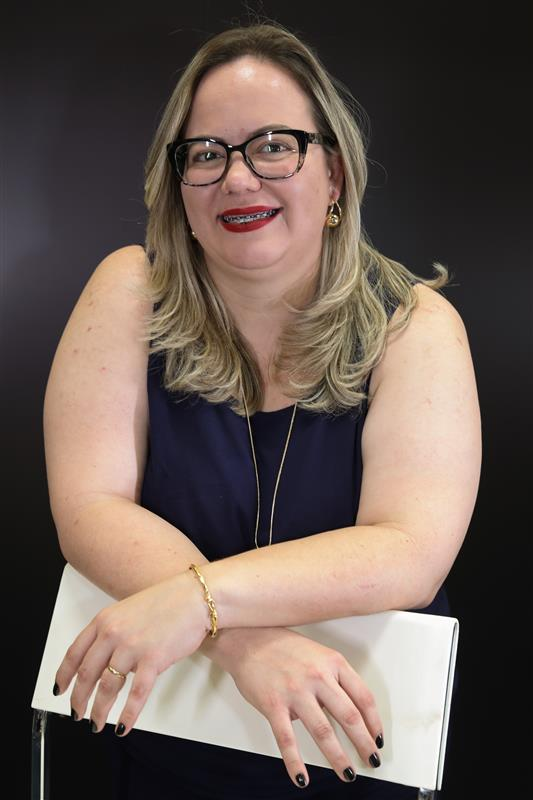
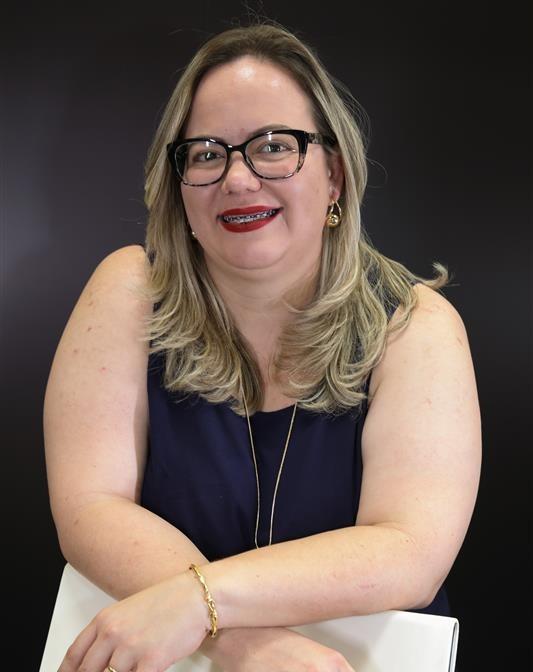
links

diff --git a/Evento/index.html b/Evento/index.html
@@ -108,25 +108,25 @@
                         <div class="title2">Cabeleleiro</div>
                       </a>
                      
-                      <a href="cabeleleiro.html" class="swiper-slide">
+                      <a href="saude.html" class="swiper-slide">
                         <img src="/Evento/src/WhatsApp Image 2025-04-22 at 11.06.04 (2).jpeg" alt="">
                         <div class="title1">Leticia Texeira Rosa</div>
                         <div class="title2">Saúde e Apoio Social</div>
                       </a>
                      
-                      <a href="cabeleleiro.html" class="swiper-slide">
+                      <a href="ti.html" class="swiper-slide">
                         <img src="/Evento/src/WhatsApp Image 2025-04-22 at 11.06.03.jpeg" alt="">
                         <div class="title1">Rafael Rodrigues dos Santos</div>
                         <div class="title2">Desenvolvimento de Sistemas </div>
                       </a>
                      
-                      <a href="cabeleleiro.html" class="swiper-slide">
+                      <a href="estetica.html" class="swiper-slide">
                         <img src="/Evento/src/WhatsApp Image 2025-04-22 at 11.06.03 (1).jpeg" alt="">
                         <div class="title1">Rebeka Araújo Bucalon</div>
                         <div class="title2">Estética e Bem-Estar</div>
                       </a>
                      
-                      <a href="cabeleleiro.html" class="swiper-slide">
+                      <a href="gastronomia.html" class="swiper-slide">
                         <img src="/Evento/src/WhatsApp Image 2025-04-22 at 11.06.04 (1).jpeg" alt="">
                         <div class="title1">Any Gabrieli da Silva Pinto</div>
                         <div class="title2">Gastronomia</div>
@@ -169,32 +169,32 @@
                 <div class="swiper mySwiper">
                     <div class="swiper-wrapper">
                         <a href="cabeleleiro.html" class="swiper-slide">
-                            <img src="/Evento/src/" alt="">
+                            <img src="/Evento/src/professores/WhatsApp Image 2025-04-23 at 08.33.32.jpeg" alt="">
                             <div class="title1">Levy Wilkerson</div>
                             <div class="title2">Cabeleleiro</div>
                           </a>
                          
-                          <a href="cabeleleiro.html" class="swiper-slide">
-                            <img src="/Evento/src/WhatsApp Image 2025-04-22 at 11.06.04 (2).jpeg" alt="">
-                            <div class="title1">Leticia Texeira Rosa</div>
+                          <a href="saude.html" class="swiper-slide">
+                            <img src="/Evento/src/professores/Layla.jpg" alt="">
+                            <div class="title1">Layla Leite Machado</div>
                             <div class="title2">Saúde e Apoio Social</div>
                           </a>
                          
-                          <a href="cabeleleiro.html" class="swiper-slide">
-                            <img src="/Evento/src/WhatsApp Image 2025-04-22 at 11.06.03.jpeg" alt="">
-                            <div class="title1">Rafael Rodrigues dos Santos</div>
+                          <a href="ti.html" class="swiper-slide">
+                            <img src="/Evento/src/professores/AR1A2472.jpg" alt="">
+                            <div class="title1">Enilda da Rosa Caceres</div>
                             <div class="title2">Desenvolvimento de Sistemas </div>
                           </a>
                          
-                          <a href="cabeleleiro.html" class="swiper-slide">
-                            <img src="/Evento/src/WhatsApp Image 2025-04-22 at 11.06.03 (1).jpeg" alt="">
-                            <div class="title1">Rebeka Araújo Bucalon</div>
+                          <a href="estetica.html" class="swiper-slide">
+                            <img src="/Evento/src/professores/WhatsApp Image 2025-04-22 at 11.17.54.jpeg" alt="">
+                            <div class="title1">Thais Jabrayan</div>
                             <div class="title2">Estética e Bem-Estar</div>
                           </a>
                          
-                          <a href="cabeleleiro.html" class="swiper-slide">
-                            <img src="/Evento/src/WhatsApp Image 2025-04-22 at 11.06.04 (1).jpeg" alt="">
-                            <div class="title1">Any Gabrieli da Silva Pinto</div>
+                          <a href="gastronomia.html" class="swiper-slide">
+                            <img src="/Evento/src/professores/WhatsApp Image 2025-04-23 at 08.41.26.jpeg" alt="">
+                            <div class="title1">Patrícia Grimm</div>
                             <div class="title2">Gastronomia</div>
                           </a>
                     </div>

diff --git a/Evento/estetica.html b/Evento/estetica.html
@@ -70,7 +70,7 @@
                     Lorem ipsum dolor sit amet consectetur adipisicing elit. Recusandae, libero quas earum consequuntur aut officia officiis? Cumque illum id nulla perferendis vitae quaerat assumenda, quibusdam nihil dolore nostrum eveniet eligendi. Lorem ipsum dolor sit amet consectetur adipisicing elit. Optio tempore aliquid error deleniti dolores temporibus omnis corrupti, voluptate ratione veritatis nemo facilis porro totam suscipit, nesciunt, inventore consequatur soluta maxime. Lorem, ipsum dolor. Lorem ipsum dolor sit amet consectetur adipisicing elit. Sequi eaque veritatis aliquam accusantium deleniti autem sint quibusdam, nemo illo nesciunt earum, ducimus nostrum, provident laboriosam nobis aut totam non corrupti!
                 </div>
                 <div class="conatiner_unilt_item_right">
-                    <img src="src/WhatsApp Image 2025-04-22 at 11.06.04 (1).jpeg" alt="">
+                    <img src="src/WhatsApp Image 2025-04-22 at 11.06.03 (1).jpeg" alt="">
                 </div>
                 <img id="img_competidor" src="src/estetica/Design sem nome (3).png" alt="">
             </div>
@@ -85,7 +85,7 @@
             </div>
             <div class="conatiner_body_unil">
                 <div class="conatiner_unilt_item_right">
-                    <img src="" alt="">
+                    <img src="src/professores/WhatsApp Image 2025-04-22 at 11.17.54.jpeg" alt="">
                 </div>
                 <div class="conatiner_unilt_item_left">
                     Como treinadora da ocupação de Desenvolvimento de Sistemas nas Competições Senac de Educação Profissional, tenho o privilégio de acompanhar de perto o nascimento de grandes talentos da tecnologia. Aqui, cada linha de código é mais do que um exercício técnico — é uma ferramenta de transformação.

diff --git a/Evento/ti.html b/Evento/ti.html
@@ -70,7 +70,7 @@
                     Lorem ipsum dolor sit amet consectetur adipisicing elit. Recusandae, libero quas earum consequuntur aut officia officiis? Cumque illum id nulla perferendis vitae quaerat assumenda, quibusdam nihil dolore nostrum eveniet eligendi. Lorem ipsum dolor sit amet consectetur adipisicing elit. Optio tempore aliquid error deleniti dolores temporibus omnis corrupti, voluptate ratione veritatis nemo facilis porro totam suscipit, nesciunt, inventore consequatur soluta maxime. Lorem, ipsum dolor. Lorem ipsum dolor sit amet consectetur adipisicing elit. Sequi eaque veritatis aliquam accusantium deleniti autem sint quibusdam, nemo illo nesciunt earum, ducimus nostrum, provident laboriosam nobis aut totam non corrupti!
                 </div>
                 <div class="conatiner_unilt_item_right">
-                    <img src="src/WhatsApp Image 2025-04-22 at 11.06.04 (1).jpeg" alt="">
+                    <img src="src/WhatsApp Image 2025-04-22 at 11.06.03.jpeg" alt="">
                 </div>
                 <img id="img_competidor" src="src/ti/Design sem nome (1).png" alt="">
             </div>
@@ -85,7 +85,7 @@
             </div>
             <div class="conatiner_body_unil">
                 <div class="conatiner_unilt_item_right">
-                    <img src="" alt="">
+                    <img src="src/professores/AR1A2472.jpg" alt="">
                 </div>
                 <div class="conatiner_unilt_item_left">
                     Como treinadora da ocupação de Desenvolvimento de Sistemas nas Competições Senac de Educação Profissional, tenho o privilégio de acompanhar de perto o nascimento de grandes talentos da tecnologia. Aqui, cada linha de código é mais do que um exercício técnico — é uma ferramenta de transformação.

diff --git a/Evento/cabeleleiro.html b/Evento/cabeleleiro.html
@@ -69,7 +69,7 @@
                     Lorem ipsum dolor sit amet consectetur adipisicing elit. Recusandae, libero quas earum consequuntur aut officia officiis? Cumque illum id nulla perferendis vitae quaerat assumenda, quibusdam nihil dolore nostrum eveniet eligendi. Lorem ipsum dolor sit amet consectetur adipisicing elit. Optio tempore aliquid error deleniti dolores temporibus omnis corrupti, voluptate ratione veritatis nemo facilis porro totam suscipit, nesciunt, inventore consequatur soluta maxime. Lorem, ipsum dolor. Lorem ipsum dolor sit amet consectetur adipisicing elit. Sequi eaque veritatis aliquam accusantium deleniti autem sint quibusdam, nemo illo nesciunt earum, ducimus nostrum, provident laboriosam nobis aut totam non corrupti!
                 </div>
                 <div class="conatiner_unilt_item_right">
-                    <img src="src/WhatsApp Image 2025-04-22 at 11.06.04 (1).jpeg" alt="">
+                    <img src="src/WhatsApp Image 2025-04-22 at 11.06.04.jpeg" alt="">
                 </div>
                 <img id="img_competidor" src="src/cabeleleiro/ab.png" alt="">
             </div>
@@ -84,7 +84,7 @@
             </div>
             <div class="conatiner_body_unil">
                 <div class="conatiner_unilt_item_right">
-                    <img src="" alt="">
+                    <img src="src/professores/WhatsApp Image 2025-04-23 at 08.33.32.jpeg" alt="">
                 </div>
                 <div class="conatiner_unilt_item_left">
                     Lorem ipsum dolor sit amet consectetur adipisicing elit. Recusandae, libero quas earum consequuntur aut officia officiis? Cumque illum id nulla perferendis vitae quaerat assumenda, quibusdam nihil dolore nostrum eveniet eligendi.

diff --git a/Evento/saude.html b/Evento/saude.html
@@ -67,7 +67,7 @@
                     Lorem ipsum dolor sit amet consectetur adipisicing elit. Recusandae, libero quas earum consequuntur aut officia officiis? Cumque illum id nulla perferendis vitae quaerat assumenda, quibusdam nihil dolore nostrum eveniet eligendi. Lorem ipsum dolor sit amet consectetur adipisicing elit. Optio tempore aliquid error deleniti dolores temporibus omnis corrupti, voluptate ratione veritatis nemo facilis porro totam suscipit, nesciunt, inventore consequatur soluta maxime. Lorem, ipsum dolor. Lorem ipsum dolor sit amet consectetur adipisicing elit. Sequi eaque veritatis aliquam accusantium deleniti autem sint quibusdam, nemo illo nesciunt earum, ducimus nostrum, provident laboriosam nobis aut totam non corrupti!
                 </div>
                 <div class="conatiner_unilt_item_right">
-                    <img src="src/WhatsApp Image 2025-04-22 at 11.06.04 (1).jpeg" alt="">
+                    <img src="src/WhatsApp Image 2025-04-22 at 11.06.04 (2).jpeg" alt="">
                 </div>
                 <img id="img_competidor_sa" src="src/saude/Design sem nome (1).png" alt="">
             </div>
@@ -82,7 +82,7 @@
             </div>
             <div class="conatiner_body_unil">
                 <div class="conatiner_unilt_item_right">
-                    <img src="" alt="">
+                    <img src="src/professores/Layla.jpg" alt="">
                 </div>
                 <div class="conatiner_unilt_item_left_sa">
                     Lorem ipsum dolor sit amet consectetur adipisicing elit. Recusandae, libero quas earum consequuntur aut officia officiis? Cumque illum id nulla perferendis vitae quaerat assumenda, quibusdam nihil dolore nostrum eveniet eligendi.

diff --git a/Evento/gastronomia.html b/Evento/gastronomia.html
@@ -82,7 +82,7 @@
             </div>
             <div class="conatiner_body_unil">
                 <div class="conatiner_unilt_item_right">
-                    <img src="" alt="">
+                    <img src="src/professores/WhatsApp Image 2025-04-23 at 08.41.26.jpeg" alt="">
                 </div>
                 <div class="conatiner_unilt_item_left">
                     Lorem ipsum dolor sit amet consectetur adipisicing elit. Recusandae, libero quas earum consequuntur aut officia officiis? Cumque illum id nulla perferendis vitae quaerat assumenda, quibusdam nihil dolore nostrum eveniet eligendi.
@@ -99,13 +99,13 @@
     </main>
     <footer>
         <div class="conatiner_redes">
-            <a class="item-rede">
+            <a href="https://www.instagram.com/senac_ms/" class="item-rede">
                 <i class="fa-brands fa-instagram"></i>
             </a>
-            <a class="item-rede">
+            <a href="https://www.youtube.com/@Senac_MS" class="item-rede">
                 <i class="fa-brands fa-youtube"></i>
             </a>
-            <a class="item-rede">
+            <a href="https://www.tiktok.com/@senac_ms" class="item-rede">
                 <i class="fa-brands fa-tiktok"></i>
             </a>
         </div>

diff --git a/Evento/css/sytle.css b/Evento/css/sytle.css
@@ -256,8 +256,8 @@ main{
     display: flex;
     height: 500px;
     border-radius: 5px;
-    transition: all 0.2s ease-in-out
-    ;
+    transition: all 0.2s ease-in-out;
+    object-fit: cover;
 }
 
 .swiper-slide:hover{

diff --git a/Evento/css/estetica.css b/Evento/css/estetica.css
@@ -114,8 +114,6 @@
     width: 500px;
     height: 600px;
     border-radius: 5px ;
-    background-color: rgba(255, 124, 198, 0.561);
-
     object-fit: contain;
     z-index: 8;
 
